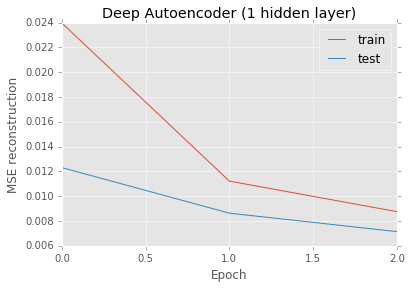
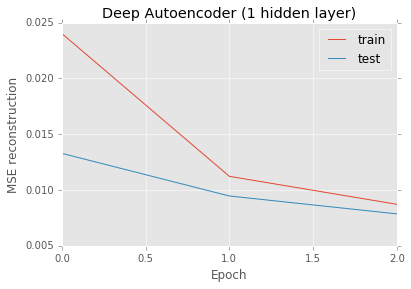
up

diff --git a/code/dAE.py b/code/dAE.py
@@ -382,7 +382,7 @@ class dAE_nobias(object):
         return T.mean((z-self.x)**2)
 
 
-def test_dAE(learning_rate=0.05, training_epochs=3, dataset='full', batch_size=64, output_folder='models/dae'):
+def test_dAE(learning_rate=0.05, training_epochs=50, dataset='full', batch_size=64, output_folder='models/dae'):
 
     """
     This demo is tested on MNIST
@@ -527,12 +527,21 @@ def test_dAE(learning_rate=0.05, training_epochs=3, dataset='full', batch_size=6
         }
     )
 
+    test_da = theano.function(
+        [],
+        da.mse_test_recon(corruption_level=0.3),
+        givens={
+            x: test_set_x[:]
+        }
+    )
+
     start_time = time.clock()
 
     ############
     # TRAINING #
     ############
     mse_log =[]
+    mse_test_log =[]
     # go through training epochs
     for epoch in xrange(training_epochs):
         # go through trainng set
@@ -542,7 +551,7 @@ def test_dAE(learning_rate=0.05, training_epochs=3, dataset='full', batch_size=6
 
         print 'Training epoch %d, cost ' % epoch, numpy.mean(c)
         mse_log.append(numpy.mean(c))
-
+        mse_test_log.append(numpy.mean(test_da()))
     end_time = time.clock()
 
     training_time = (end_time - start_time)
@@ -564,6 +573,8 @@ def test_dAE(learning_rate=0.05, training_epochs=3, dataset='full', batch_size=6
     with open(output_folder+'/dAE_mnist_corr30_log.pkl', 'wb') as output:
         pickle.dump(mse_log, output, pickle.HIGHEST_PROTOCOL)
 
+    with open(output_folder+'/dAE_mnist_test_corr30_log.pkl', 'wb') as output:
+        pickle.dump(mse_test_log, output, pickle.HIGHEST_PROTOCOL)
 
 
 if __name__ == '__main__':
